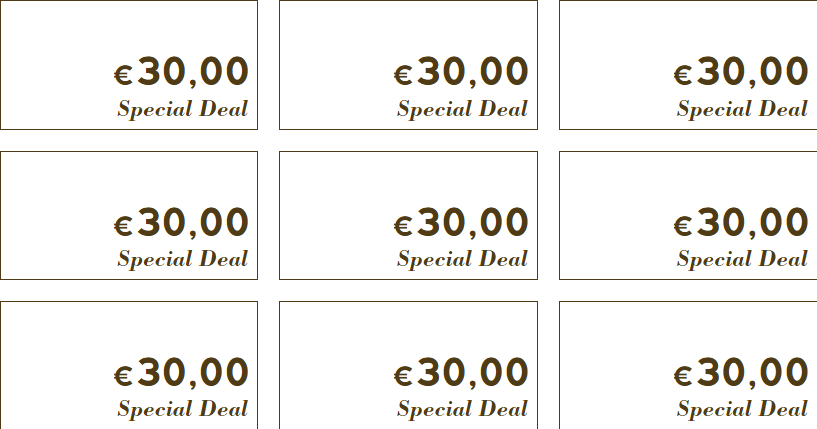
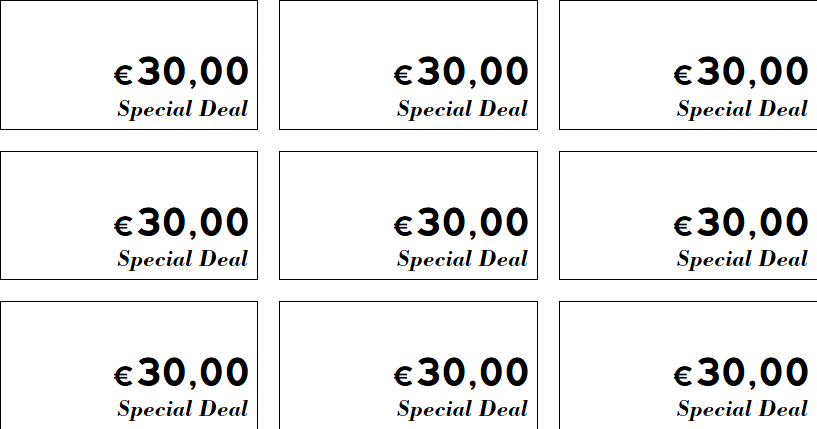
Prezzi Vetrina: testo e bordo del cartellino neri, in stile Luxury

diff --git a/prezzivetrina.html b/prezzivetrina.html
@@ -36,8 +36,8 @@
       --text: #f4f1ea;
       --text-muted: #8c857b;
       --gold: #b48b37;
-      /* Marrone di stampa dei cartellini, dal layout di riferimento (non è un colore di marchio) */
-      --print-brown: #4f3c16;
+      /* Nero in stile Luxury (al posto del marrone del layout di riferimento di TEBE) */
+      --print-brown: #000000;
     }
 
     * { box-sizing: border-box; margin: 0; padding: 0; }

diff --git a/AGENTS.md b/AGENTS.md
@@ -58,7 +58,7 @@ Decisioni prese:
 - Promo stagionali: `promo_multibrand`, `blackfriday`, `blackfridaylips`, `xmas_ball`.
 - `cartellinipromo` (titolo Cartellini Promo): stesso pannello standard di Cartellini Vetrina (linguette #1–#8, riquadro `#editorPanel` con i quattro blocchi, cursore, pulsantiera di `strumenti-stampa.js`). Blocco 1: selettore PREZZO ORIGINARIO / DESCRIZIONE ARTICOLO (uniformato al mode-switch già usato in Cartello da Banco per DOPPIA CIFRA / DESCRIZIONE ARTICOLO, al posto del vecchio pulsante "+ INSERISCI DESCRIZIONE") e pulsante + AGGIUNGI SCONTISTICA (al posto di "+ Aggiungi Aliquota Sconto"; acceso mostra solo la fascetta -XX% accanto al prezzo barrato, nascosto con DESCRIZIONE ARTICOLO). Blocco 2: BRAND e Loghi Personalizzati come in Cartellini Vetrina. Blocco 3: con PREZZO ORIGINARIO la riga Prezzo Originario (e, con SCONTISTICA attiva, Sconto accanto); con DESCRIZIONE ARTICOLO il menu Articoli (stesso elenco di prima, da "-- Seleziona un articolo --") e il Testo Libero al loro posto; poi sempre Stagionalità / Evento (la scritta sopra la fascia rossa: SUMMER SALE, BLACK FRIDAY, ecc., o "— LASCIA IL CAMPO VUOTO —") e Promozione con Testo Libero (la riga sotto nella fascia, scelta dal menu o scritta a mano, come Articoli); scegliendo BLACK FRIDAY o BLACK WEEK la Promozione si svuota da sola e la fascia mostra solo il titolo, più grande; infine Prezzo Finale. Blocco 4: tasto STAMPA FOGLIO A4. Cursore: il logo, il prezzo barrato, la fascetta sconto, la descrizione, il titolo e la riga della fascia, il prezzo finale. Stato in `cardsData`, valori di partenza come prima (sconto ora numero, "50"). Foglio di stampa e grafica invariati (fascia rossa dei saldi, nera con BLACK FRIDAY / BLACK WEEK, Bodoni, logo Luxury Outlet in fondo; il logo oro `logocartellini.png` ha pochissimo margine interno rispetto al logo rosso `loghinored.png`, quindi in fondo al cartellino è rimpicciolito all'82% con `.is-black-event .card-footer-logo img` per restare alla stessa grandezza visiva e distanza dal bordo; con il Prezzo Finale a 42pt, come in Cartellini Vetrina, il blocco centrale (`.card-body-center`) è spostato un poco più in alto, `translateY(-2.5mm)`, così il prezzo finale non resta troppo vicino al logo in fondo).
 - `cartelliniquadrati` (titolo Quadrati; modello TEBE `cartellinitebe.html`, portata da zero, non esisteva prima in StoreCraft): pannello standard come le altre due pagine cartellini (12 linguette #1–#12, riquadro `#editorPanel`, cursore, pulsantiera di `strumenti-stampa.js`). Foglio A4 orizzontale con 12 cartellini **quadrati** da 60 mm (griglia 4 × 3, distanza 3 mm), cornice oro doppia (bordo 0,9 mm + filetto interno 0,2 mm, `--print-gold: #b48b37`, l'oro dei cartelli, non più l'oro di TEBE). Blocco 1: selettore DESCRIZIONE / DOPPIO PREZZO / BRAND (`mode: 'desc' | 'double' | 'brand'`). Blocco 2: BRAND e Loghi Personalizzati, solo in modalità Brand (il logo si apre con un'animazione sopra il doppio prezzo, spingendolo giù, e in testa resta comunque il flusso Descrizione/Doppio Prezzo della modalità precedente). Blocco 3: con DESCRIZIONE il menu Testi Pronti (stesso elenco Articoli/Promozioni di TEBE) e Testo Libero; con DOPPIO PREZZO/BRAND Prezzo Originario e Sconto in riga; sempre Prezzo Finale in Bodoni Std, 50pt fino a due cifre intere poi ridotto in proporzione (`getFinalPriceSize`). Blocco 4: tasto STAMPA FOGLIO A4. In alto a destra, sotto la ✕, un pulsante rosso fisso "Sale" accende un tema stagionale: tutti i cartellini mostrano la scritta SALE sopra (al posto del logo Luxury Outlet, che scende dentro il cartellino in modalità Brand). **La scritta SALE (`assets/img/sale_tebe.png`) è ancora il segnaposto di TEBE: va rifatta nello stile Luxury Outlet, per ora lasciata così apposta.** Il logo Luxury Outlet in fondo è `assets/img/footer.png` (la scritta estesa "LUXURY OUTLET", la stessa usata nei cartelli), ricolorato in oro via canvas all'avvio (`getFooterLogoSrc`, stesso meccanismo di `PrintLogoColors` ma per un'immagine fuori da `assets/logos/`) invece del monogramma LXRY usato in Cartellini Vetrina/Promo. Stato in `cardsData` (`brand: { officialFile, customLogoId }`), valori di partenza alternati a scacchiera sulla griglia 4 × 3, identici a TEBE. Cursore: come in Cartellini Vetrina/Promo, più la scritta SALE quando il tema è attivo.
-- `prezzivetrina` (titolo Prezzi Vetrina; modello TEBE `prezzivetrina.html`, portata da zero): pannello standard ma con **due riquadri distinti**, eccezione voluta perché i controlli valgono su due ambiti diversi: "Modifica Pagina" (le Fasce Prezzo, un menu che impone lo stesso prezzo a tutte le colonne insieme) e, sotto le linguette Colonna 1–3, "Modifica Colonna N" (Prezzo e Promozione con Testo Libero, della sola colonna scelta). Foglio A4 **verticale** con 24 cartellini da 60,03 × 29,97 mm (griglia 3 × 8, distanza 4,91 mm, bordo marrone 0,42 mm `--print-brown: #4f3c16`, colore del layout di riferimento e non un colore di marchio, lasciato invariato): si lavora per colonne, gli 8 cartellini di una colonna hanno lo stesso prezzo e testo, e la casella sulla linguetta esclude la colonna dalla stampa. Prezzo in Nevis Project (`assets/fonts/Nevis Bold.ttf`, già presente) 25,33pt, simbolo € 18pt; sotto il testo descrittivo in Bodoni Std Bold Italic 15,19pt (`assets/fonts/BodoniStd-BoldItalic.otf`, copiato da TEBE). I testi si riducono da soli (`fitText`) e le due righe sono allineate a destra sull'inchiostro dell'ultimo carattere, non sulla sua larghezza (`alignInkRight`). Niente loghi né brand in questa pagina. Cursore: sul primo cartellino della colonna scelta (il principio vale per tutti e otto); Fasce Prezzo, che vale su tutte e tre le colonne insieme, moltiplica il cursore su ciascuna (un cartellino per colonna, `placement: 'above'`, stesso gap delle linguette, come in TEBE). Stato in `columnsData`, valori di partenza come TEBE (tutte le colonne a € 30,00 Special Deal).
+- `prezzivetrina` (titolo Prezzi Vetrina; modello TEBE `prezzivetrina.html`, portata da zero): pannello standard ma con **due riquadri distinti**, eccezione voluta perché i controlli valgono su due ambiti diversi: "Modifica Pagina" (le Fasce Prezzo, un menu che impone lo stesso prezzo a tutte le colonne insieme) e, sotto le linguette Colonna 1–3, "Modifica Colonna N" (Prezzo e Promozione con Testo Libero, della sola colonna scelta). Foglio A4 **verticale** con 24 cartellini da 60,03 × 29,97 mm (griglia 3 × 8, distanza 4,91 mm, bordo e testo neri 0,42 mm, stile Luxury, al posto del marrone `#4f3c16` del layout di riferimento di TEBE): si lavora per colonne, gli 8 cartellini di una colonna hanno lo stesso prezzo e testo, e la casella sulla linguetta esclude la colonna dalla stampa. Prezzo in Nevis Project (`assets/fonts/Nevis Bold.ttf`, già presente) 25,33pt, simbolo € 18pt; sotto il testo descrittivo in Bodoni Std Bold Italic 15,19pt (`assets/fonts/BodoniStd-BoldItalic.otf`, copiato da TEBE). I testi si riducono da soli (`fitText`) e le due righe sono allineate a destra sull'inchiostro dell'ultimo carattere, non sulla sua larghezza (`alignInkRight`). Niente loghi né brand in questa pagina. Cursore: sul primo cartellino della colonna scelta (il principio vale per tutti e otto); Fasce Prezzo, che vale su tutte e tre le colonne insieme, moltiplica il cursore su ciascuna (un cartellino per colonna, `placement: 'above'`, stesso gap delle linguette, come in TEBE). Stato in `columnsData`, valori di partenza come TEBE (tutte le colonne a € 30,00 Special Deal).
 - Cartellini: `cartellinivetrina`, `cartellinipromo`, `cartelliniquadrati`, `prezzivetrina`.
 - Etichette DYMO: `etichette` (più le versioni `etichettedb` ed `etichetteoriginal`).
 - Loghi: `genera_loghi`, `gestisci_lista`, `logoimport`, `logogestione`.
